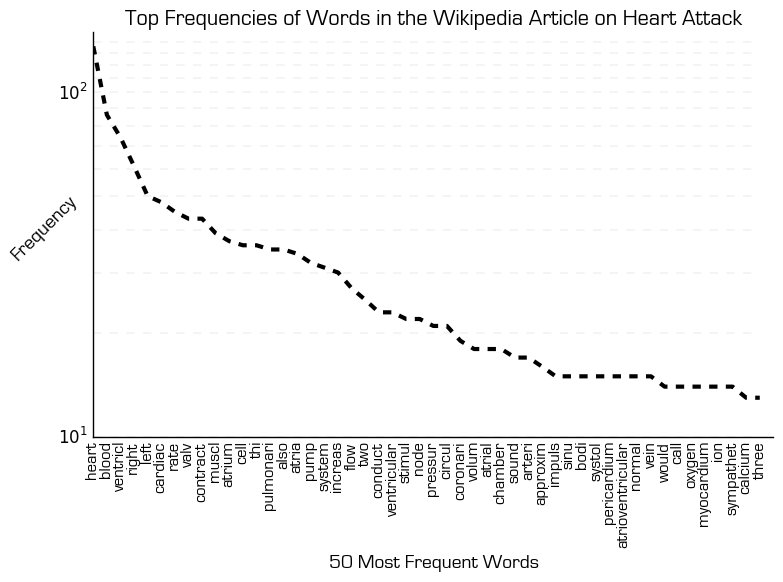
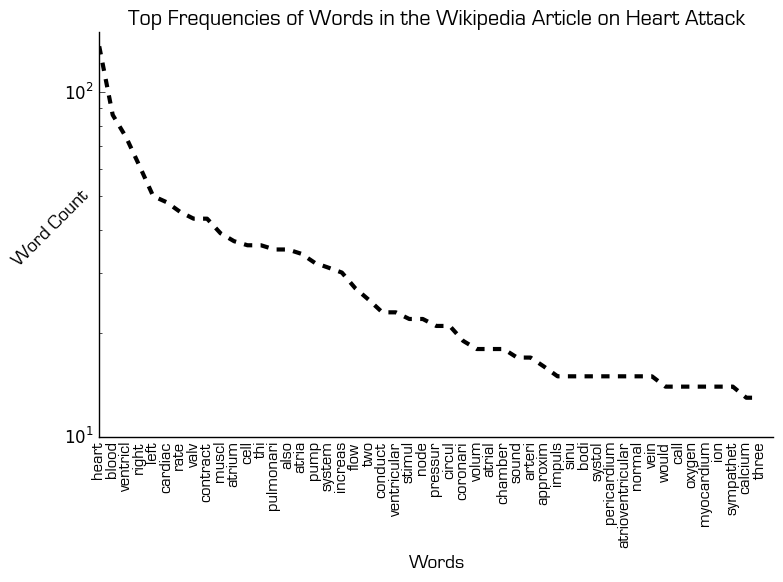
log lines
will add power law best fit line next

diff --git a/Temporary/access_wikipedia_nltk_test.py b/Temporary/access_wikipedia_nltk_test.py
@@ -70,8 +70,6 @@ print common
 "The next portion doesn't work because of error: could not convert string to float: '(most frequent word) ' "
 color1 = (0/255., 0/255., 0/255.)
 pylab.plot(freqs, color=color1, lw=3, ls="--")
-for y in range(0, 150, 10):  
-    pylab.plot(range(0, 50), [y] * len(range(0, 50)), "--", lw=0.2, color="black", alpha=0.3)
 pylab.title("Top Frequencies of Words in the Wikipedia Article on Heart Attack", fontsize="16", family='eurostile', color=color1, style='oblique')
 pylab.ylim(10,150)
 pylab.xlabel('Words', family='eurostile',fontsize="14", color=color1)
@@ -83,7 +81,7 @@ axis.spines["left"].set_visible(True)
 axis.spines["bottom"].set_visible(True)
 axis.set_yscale('log', nonposy='clip')
 pylab.xticks(xrange(len(words)), words, rotation = 90, fontsize="12", family='eurostile', color=color1)
-pylab.tick_params(axis="both", which="both", bottom="off", top="off", labelbottom="on", left="off", right="off", labelleft="on")
+pylab.tick_params(axis="both", which="both", bottom="off", top="off", labelbottom="on", left="on", right="off", labelleft="on")
 pylab.tight_layout()
 pylab.show()
 pylab.savefig("wikipedia-word-frequencies.png", bbox_inches="tight")  
